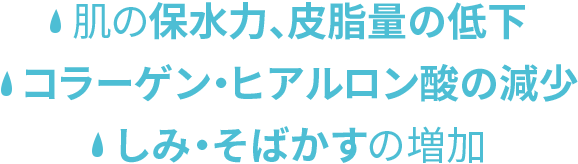
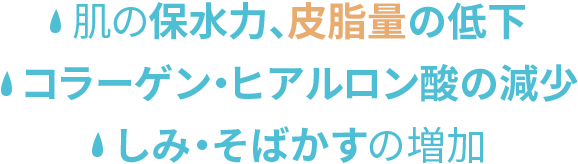
【修正】オールインワンゲル

Changed region(s): [[0.4983, 0.0, 0.7163, 0.2439]]

diff --git a/lp/css/allinonegel.css b/lp/css/allinonegel.css
@@ -1111,6 +1111,39 @@ em::-moz-selection, h3::-moz-selection, h4::-moz-selection {
 .nayamiCon_txt-03 img {
   max-width: 428px;
 }
+.nayamiCon_txt-05 img {
+  max-width: 790px;
+  z-index:1;
+}
+.nayamiCon_txt-05 {
+  position:relative;
+  width:100%;
+  padding-bottom:5%;
+  z-index:0;
+  text-align: center;
+}
+.nayamiCon_txt-05::after {
+  content:"";
+  position:absolute;
+  z-index:-1;
+  top: 50%;
+  left: 50%;
+  transform: translateY(-63%) translateX(-50%);
+  -webkit- transform: translateY(-63%) translateX(-50%);
+  margin: auto;
+  border-radius: 50% 50%;
+	width:80%;
+	max-width:740px;
+	height:80%;
+  background-image: linear-gradient(
+    -45deg,
+    #fff 25%,
+    #f8f8f8 25%, #f8f8f8 50%,
+    #fff 50%, #fff 75%,
+    #f8f8f8 75%, #f8f8f8
+  );
+  background-size: 16px 16px;
+}
 @media screen and (max-width: 640px) {
   .nayamiCon_txt {
     padding-bottom: 15%;

diff --git a/lp/allinonegel.html b/lp/allinonegel.html
@@ -153,6 +153,7 @@ j=d.createElement(s),dl=l!='dataLayer'?'&l='+l:'';j.async=true;j.src=
         <p class="nayamiCon_txt nayamiCon_txt-01"><img src="images/allinonegel/nayami_text_01.png" alt="これらの悩みの原因は、年齢肌。月日を重ねるごとに、お肌は"></p>
         <p class="nayamiCon_txt nayamiCon_txt-02"><img src="images/allinonegel/nayami_text_02.png" alt="肌の保水力、皮脂量の低下、しみ・そばかすの増加、コラーゲン・ヒアルロン酸の減少"></p>
         <p class="nayamiCon_txt nayamiCon_txt-03"><img src="images/allinonegel/nayami_text_03.png" alt="と、変化していくものです。"></p>
+        <p class="nayamiCon_txt-05"><img src="images/allinonegel/nayami_text_05.png" alt="肌状態の解析グラフ"></p>
         <!-- //nayamiCon -->
       </div>
       <div class="kaiketsuCon">
